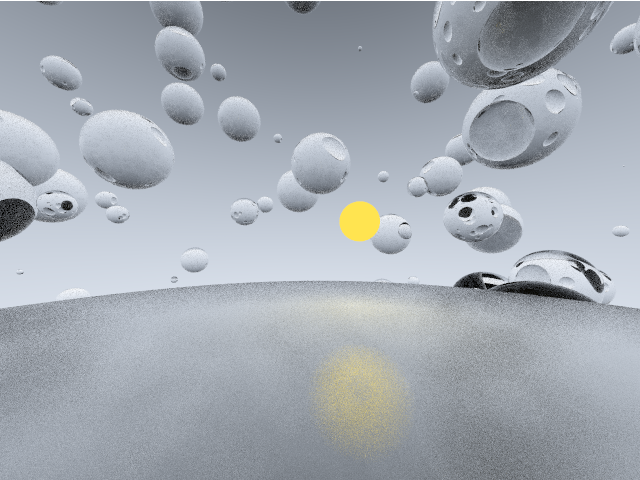
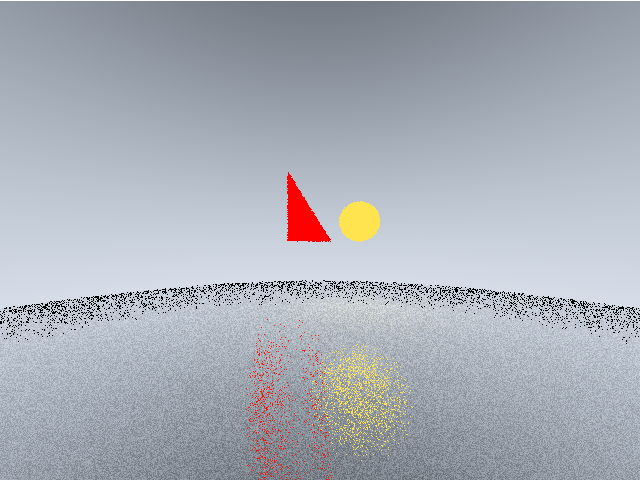
add triangle add getMaterial to interface fix build

diff --git a/rtCLI/main.go b/rtCLI/main.go
@@ -113,9 +113,9 @@ func getLights(scene *[]core.Hittable) []core.Hittable {
 	lights := make([]core.Hittable, 0)
 
 	for i := 0; i < len(*scene); i++ {
-		sphere := ((*scene)[i]).(*core.Sphere)
-		if _, ok := sphere.Material.(*core.DiffuseLightMaterial); ok {
-			lights = append(lights, sphere)
+		item := ((*scene)[i])
+		if _, ok := item.GetMaterial().(*core.DiffuseLightMaterial); ok {
+			lights = append(lights, item)
 		}
 	}
 	return lights
@@ -150,18 +150,22 @@ func main() {
 
 	scene := []core.Hittable{&core.Sphere{core.Vec3{1, .5, -6}, 0.5, &core.DiffuseLightMaterial{core.Col3{1, .8, .1}}},
 		&core.Sphere{core.Vec3{0, -101.5, -1}, 100, &core.MetalMaterial{core.Col3{1, 1, 1}, .2}},
+		&core.Triangle{Verts: []core.Vec3{core.Vec3{0, 0, -1},
+			core.Vec3{-2, 0, -10},
+			core.Vec3{-2, 3, -10}},
+			Material: &core.DiffuseLightMaterial{core.Col3{1, 0, 0}}},
 	}
 
-	for i := 0; i < 300; i++ {
-		newSphere := core.Sphere{core.Vec3{rand.Float64()*100.0 - 50, rand.Float64()*100.0 - 50, rand.Float64()*100.0 - 50}, rand.Float64() * 5.0,
-			&core.RefractiveMaterial{1.5}}
-		scene = append(scene, &newSphere)
-	}
+	// for i := 0; i < 300; i++ {
+	// 	newSphere := core.Sphere{core.Vec3{rand.Float64()*100.0 - 50, rand.Float64()*100.0 - 50, rand.Float64()*100.0 - 50}, rand.Float64() * 5.0,
+	// 		&core.RefractiveMaterial{1.5}}
+	// 	scene = append(scene, &newSphere)
+	// }
 
 	fmt.Println("creating camera and image")
 	const imageWidth int = 640
 	const imageHeight int = 480
-	const samplesPerPixel = 32
+	const samplesPerPixel = 1
 	const maxDepth = 5
 	img := image.NewRGBA(image.Rect(0, 0, imageWidth, imageHeight))
 	cam := core.NewCamera(2, 2.66666666667, 1, core.NewVector3(0, 0, 0))

diff --git a/core/sphere.go b/core/sphere.go
@@ -31,5 +31,60 @@ func (s *Sphere) Hit(ray *Ray, tmin float64, tmax float64, record *HitRecord) bo
 	record.CalculateIfHitIsFrontFacing(ray)
 	record.HitMaterial = *&s.Material
 	return true
+}
 
+func (s *Sphere) GetMaterial() Material {
+	return s.Material
+}
+
+type Triangle struct {
+	Verts    []Vec3
+	Normals  []Vec3
+	UVs      []Vec3
+	Material Material
+}
+
+func (tri *Triangle) Hit(ray *Ray, tmin float64, tmax float64, record *HitRecord) bool {
+	// do we hit the plane?
+
+	//tri norm by edges:
+	A := tri.Verts[0]
+	B := tri.Verts[1]
+	C := tri.Verts[2]
+
+	norm := Normalize(Cross(B.Subtract(A), C.Subtract(A)))
+
+	//ray is parallel to tri - no intersection
+	if Dot(norm, ray.Direction) == 0 {
+		return false
+	}
+
+	d := Dot(norm, A)
+	t := (d - Dot(norm, ray.Origin)) / Dot(norm, ray.Direction)
+
+	if t < tmin || t > tmax {
+		return false
+	}
+
+	intersectionPointQ := ray.At(t)
+
+	//now do tri inside out testing using q.
+	term1 := Dot(Cross(B.Subtract(A), intersectionPointQ.Subtract(A)), norm) >= 0
+	term2 := Dot(Cross(C.Subtract(B), intersectionPointQ.Subtract(B)), norm) >= 0
+	term3 := Dot(Cross(A.Subtract(C), intersectionPointQ.Subtract(C)), norm) >= 0
+
+	if term1 && term2 && term3 {
+		//return data
+		record.t = t
+		record.Hitpoint = intersectionPointQ
+		//for now... TODO smooth this using averaged vert normals.
+		record.Normal = norm
+		record.CalculateIfHitIsFrontFacing(ray)
+		record.HitMaterial = *&tri.Material
+		return true
+	}
+	return false
+}
+func (t *Triangle) GetMaterial() Material {
+	return t.Material
 }

diff --git a/core/hittable.go b/core/hittable.go
@@ -16,6 +16,7 @@ func (hr *HitRecord) CalculateIfHitIsFrontFacing(ray *Ray) {
 }
 
 type Hittable interface {
+	GetMaterial() Material
 	Hit(ray *Ray, tmin float64, tmax float64, record *HitRecord) bool
 }
 

diff --git a/readme.md b/readme.md
@@ -3,11 +3,11 @@ References:
 [_Ray Tracing in One Weekend_](https://raytracing.github.io/books/RayTracingInOneWeekend.html)
 
 ### TODO:
-- [] send rays towards light objects
-- [] specular/refecltive rays for metal etc.
+- [x] send rays towards light objects
+- [x] specular/refecltive rays for metal etc.
 - [] multicore
 - [] update view progress
-- [] ray tri intersection
+- [x] ray tri intersection
 - [] obj/stl loading
 - [] texture coords / textures
 - [] signed distance field to mesh gen using https://github.com/deadsy/sdfx
